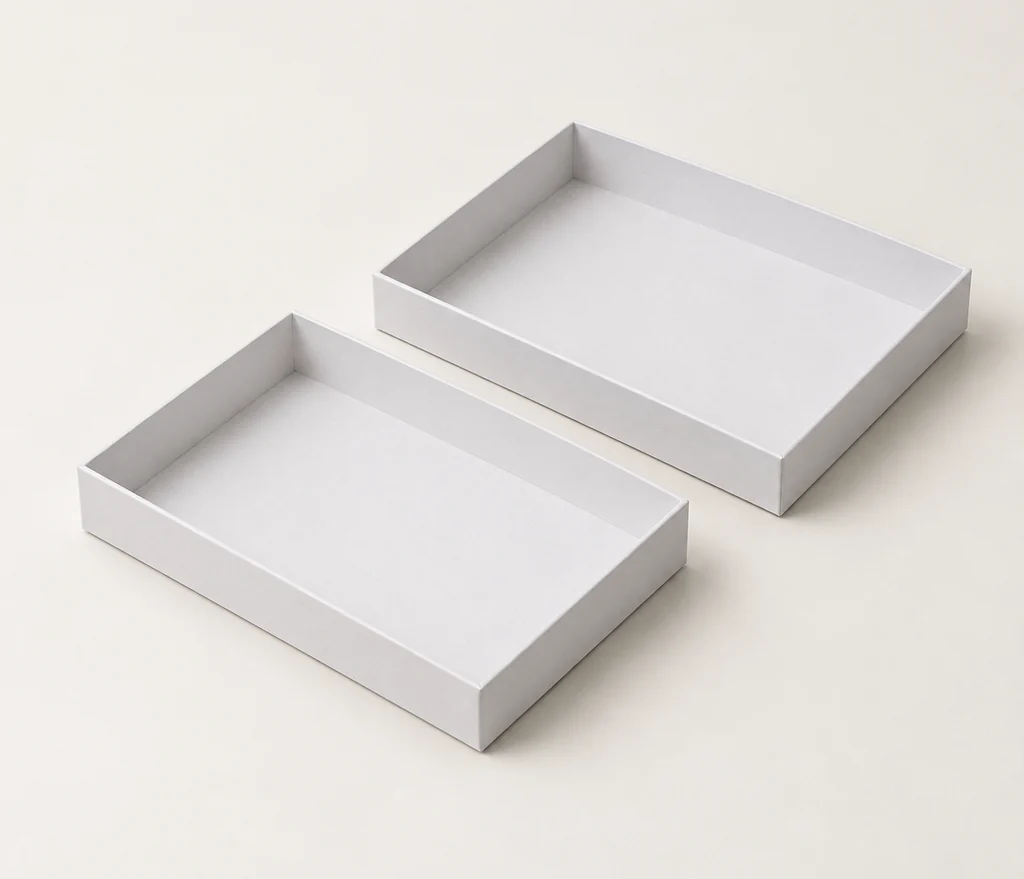
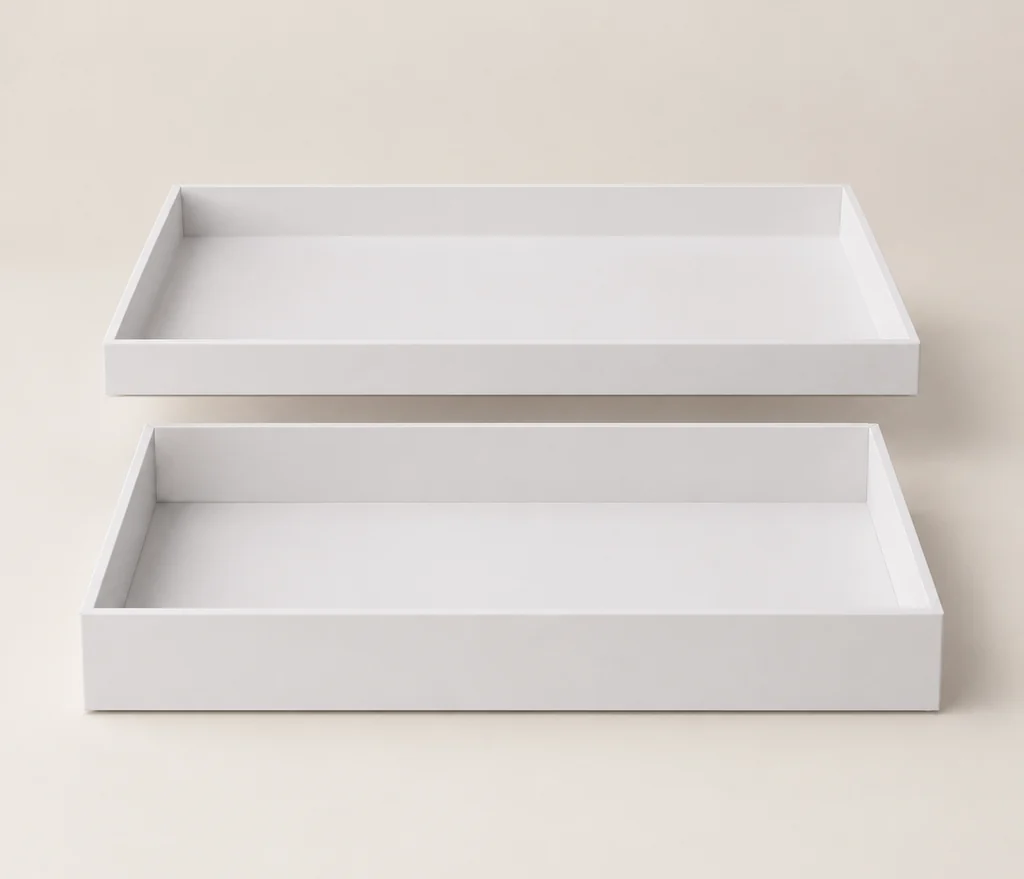
rigid box photo: eye-level pair render so the tray walls are dead straight (no bulge/pillow)

diff --git a/capabilities.html b/capabilities.html
@@ -240,7 +240,7 @@
         <!-- 此处原为实拍位。2026-10-05 用户明确：公司产品**全部代工**，成品照片是客户的货，
              不能放官网 ⇒ 该位改为结构插图（实拍位方案作废，docs/SITE_SETUP.md §八 待同步）。 -->
         <figure class="hero__figure">
-          <img src="assets/img/structure-rigid.webp?v=5add5fdd0d" width="1024" height="879" loading="lazy"
+          <img src="assets/img/structure-rigid.webp?v=38e834c320" width="1024" height="879" loading="lazy"
                alt="Studio illustration of a rigid lid-and-base box shown as a matched pair: the base tray and its lid tray, both plain unprinted white. Illustration, not a specification.">
           <figcaption>The lid and base are signed off together — in writing, before the run starts.</figcaption>
         </figure>

diff --git a/verify.html b/verify.html
@@ -119,7 +119,7 @@
           </p>
         </div>
         <figure class="hero__figure">
-          <img src="assets/img/structure-rigid.webp?v=5add5fdd0d" width="1024" height="879"
+          <img src="assets/img/structure-rigid.webp?v=38e834c320" width="1024" height="879"
                alt="Studio illustration of a rigid lid-and-base box shown as a matched pair: the base tray and its lid tray, both plain unprinted white. Illustration, not a specification.">
           <figcaption>The box in your hand is the one claim nobody has to take on trust.</figcaption>
         </figure>

diff --git a/index.html b/index.html
@@ -282,7 +282,7 @@
         </article>
 
         <article class="card">
-          <img src="assets/img/structure-rigid.webp?v=5add5fdd0d" width="1024" height="879" loading="lazy"
+          <img src="assets/img/structure-rigid.webp?v=38e834c320" width="1024" height="879" loading="lazy"
                alt="Studio illustration of a rigid lid-and-base box shown as a matched pair: the base tray and its lid tray, both plain unprinted white. Illustration, not a specification.">
           <h3 class="mt-1">Rigid &amp; gift boxes</h3>
           <p>

diff --git a/products.html b/products.html
@@ -167,7 +167,7 @@
     <div class="wrap">
       <div class="split">
         <figure class="hero__figure">
-          <img src="assets/img/structure-rigid.webp?v=5add5fdd0d" width="1024" height="879" loading="lazy"
+          <img src="assets/img/structure-rigid.webp?v=38e834c320" width="1024" height="879" loading="lazy"
                alt="Studio illustration of a rigid lid-and-base box shown as a matched pair: the base tray and its lid tray, both plain unprinted white. Illustration, not a specification.">
         </figure>
         <div>
